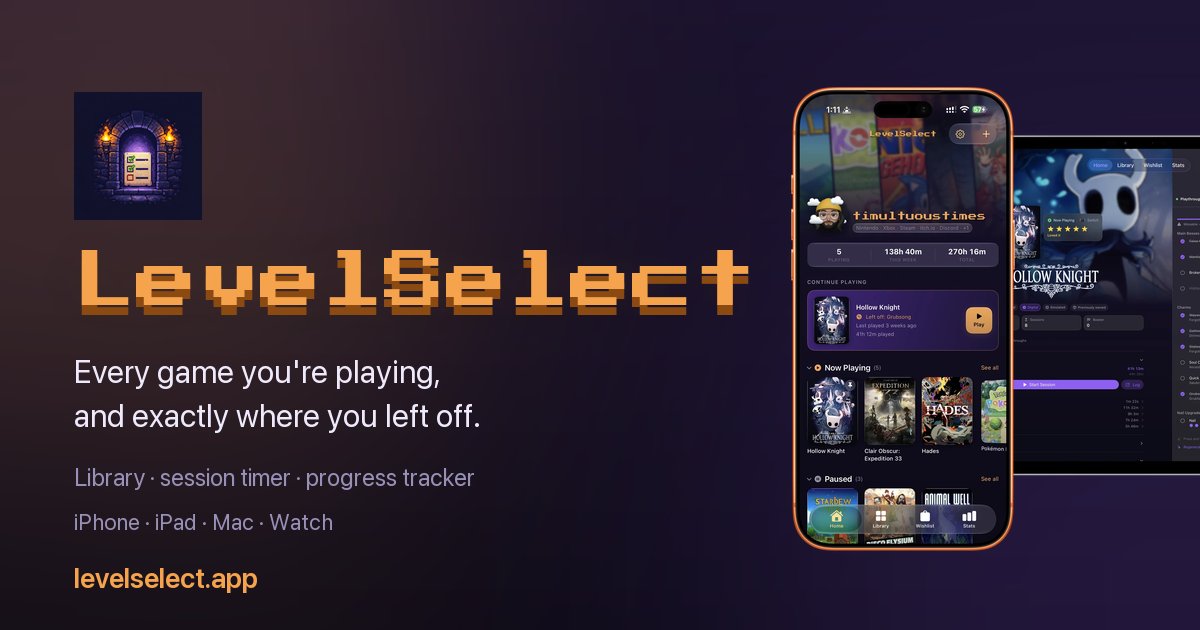
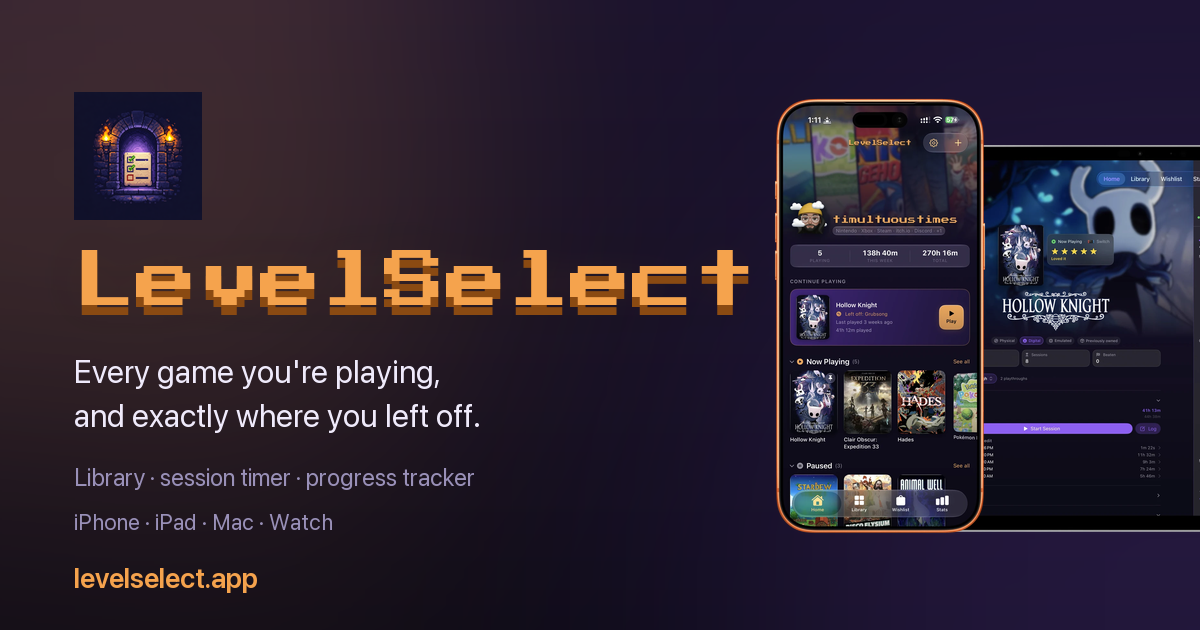
The pair is closer to scale, and fits the space it is given
The iPad was 0.74x the phone's height, which read as a phone beside a small
tablet — neither true nor useful, since nothing on the iPad was legible. An
iPad 13 is roughly three and a half times the width of an iPhone. It is
0.90 now, which is closer to life and closer to the website hero, where the
iPad ends up slightly shorter than the phone rather than dwarfed by it.

Making it bigger on its own would have made things worse, which is the more
interesting half. The story and square CENTER the art, so a wider pair loses
the same amount off both devices — the iPad would have grown and shown less.
`devices()` now takes a `max_width` and scales the finished pair to fit, and
those two pass their real available width. Both devices are whole in them
for the first time; the tracker on the iPad is actually readable.

The link preview still bleeds off the right on purpose — it is cropped hard
by every unfurler anyway — but it starts further left so more of the iPad
survives the crop.

Changed region(s): [[0.6475, 0.1206, 1.0, 0.8746]]

diff --git a/site/scripts/make-social-images.py b/site/scripts/make-social-images.py
@@ -77,27 +77,38 @@ def shot(name, height):
     return im.resize((w, height), Image.LANCZOS)
 
 
-def devices(pair, height):
+def devices(pair, height, max_width=None):
     """The hero art: one phone, or the site's phone-in-front-of-iPad pairing.
 
     `height` is the tallest device, so callers can budget vertical space and
     keep text clear of the art — the square's URL used to land on top of the
     phone because nothing was measuring this.
+
+    `max_width` scales the finished pair down to fit. Without it, making the
+    iPad bigger simply pushed it off the canvas: the story and square center
+    the art, so a wider pair loses the same amount off BOTH devices.
     """
-    # The pairing mirrors the hero's arrangement — phone in front of iPad —
-    # so a preview reads as the same product. The individual shots are picked
-    # for thumbnail legibility instead; see PHONE_SHOT.
     phone = shot(PHONE_SHOT, height)
     if not pair:
         return phone
 
-    pad = shot(IPAD_SHOT, round(height * 0.74))
-    overlap = round(phone.width * 0.46)
+    # 0.90, up from 0.74. An iPad 13 is about three and a half times the width
+    # of an iPhone; at 0.74 the pair read as a phone beside a small tablet,
+    # which is neither true nor useful — you could not see what was on the
+    # iPad. This is closer to life and closer to the website hero, where the
+    # iPad ends up slightly shorter than the phone rather than dwarfed by it.
+    pad = shot(IPAD_SHOT, round(height * 0.90))
+    overlap = round(phone.width * 0.42)
     canvas = Image.new("RGBA", (phone.width + pad.width - overlap, height), (0, 0, 0, 0))
     # iPad behind and slightly high, phone in front-left — the arrangement the
     # homepage hero uses, so the two read as one product on several screens.
     canvas.alpha_composite(pad, (phone.width - overlap, round(height * 0.10)))
     canvas.alpha_composite(phone, (0, 0))
+
+    if max_width and canvas.width > max_width:
+        scale = max_width / canvas.width
+        canvas = canvas.resize(
+            (max_width, round(canvas.height * scale)), Image.LANCZOS)
     return canvas
 
 
@@ -164,8 +175,8 @@ def open_graph(pair):
     # further right and stands shorter: the wordmark runs to ~x756 at 62px
     # (Press Start 2P is one em per character), and the phone was landing on
     # its final letter.
-    art = devices(pair, 700 if not pair else 470)
-    img.alpha_composite(art, (835, 92) if not pair else (788, 84))
+    art = devices(pair, 700 if not pair else 440)
+    img.alpha_composite(art, (835, 92) if not pair else (772, 96))
     return img, f"og{'-2up' if pair else ''}.png"
 
 
@@ -187,7 +198,7 @@ def story(pair):
     # Art sits between the tagline and the footer, scaled to whatever room is
     # left rather than a fixed height that could collide with either.
     top, footer_top = 770, 1700
-    art = devices(pair, min(900, footer_top - top - 40))
+    art = devices(pair, min(900, footer_top - top - 40), max_width=W - 120)
     if art.width > W - 80:
         art = art.resize((W - 80, round(art.height * (W - 80) / art.width)), Image.LANCZOS)
     img.alpha_composite(art, ((W - art.width) // 2, top))
@@ -212,7 +223,7 @@ def square(pair):
     d.text((540, 406), "and exactly where you left off.", font=sans(29, 400), fill=INK, anchor="mt")
 
     top, footer_top = 486, 990
-    art = devices(pair, footer_top - top - 36)
+    art = devices(pair, footer_top - top - 36, max_width=W - 120)
     if art.width > W - 80:
         art = art.resize((W - 80, round(art.height * (W - 80) / art.width)), Image.LANCZOS)
     img.alpha_composite(art, ((W - art.width) // 2, top))
